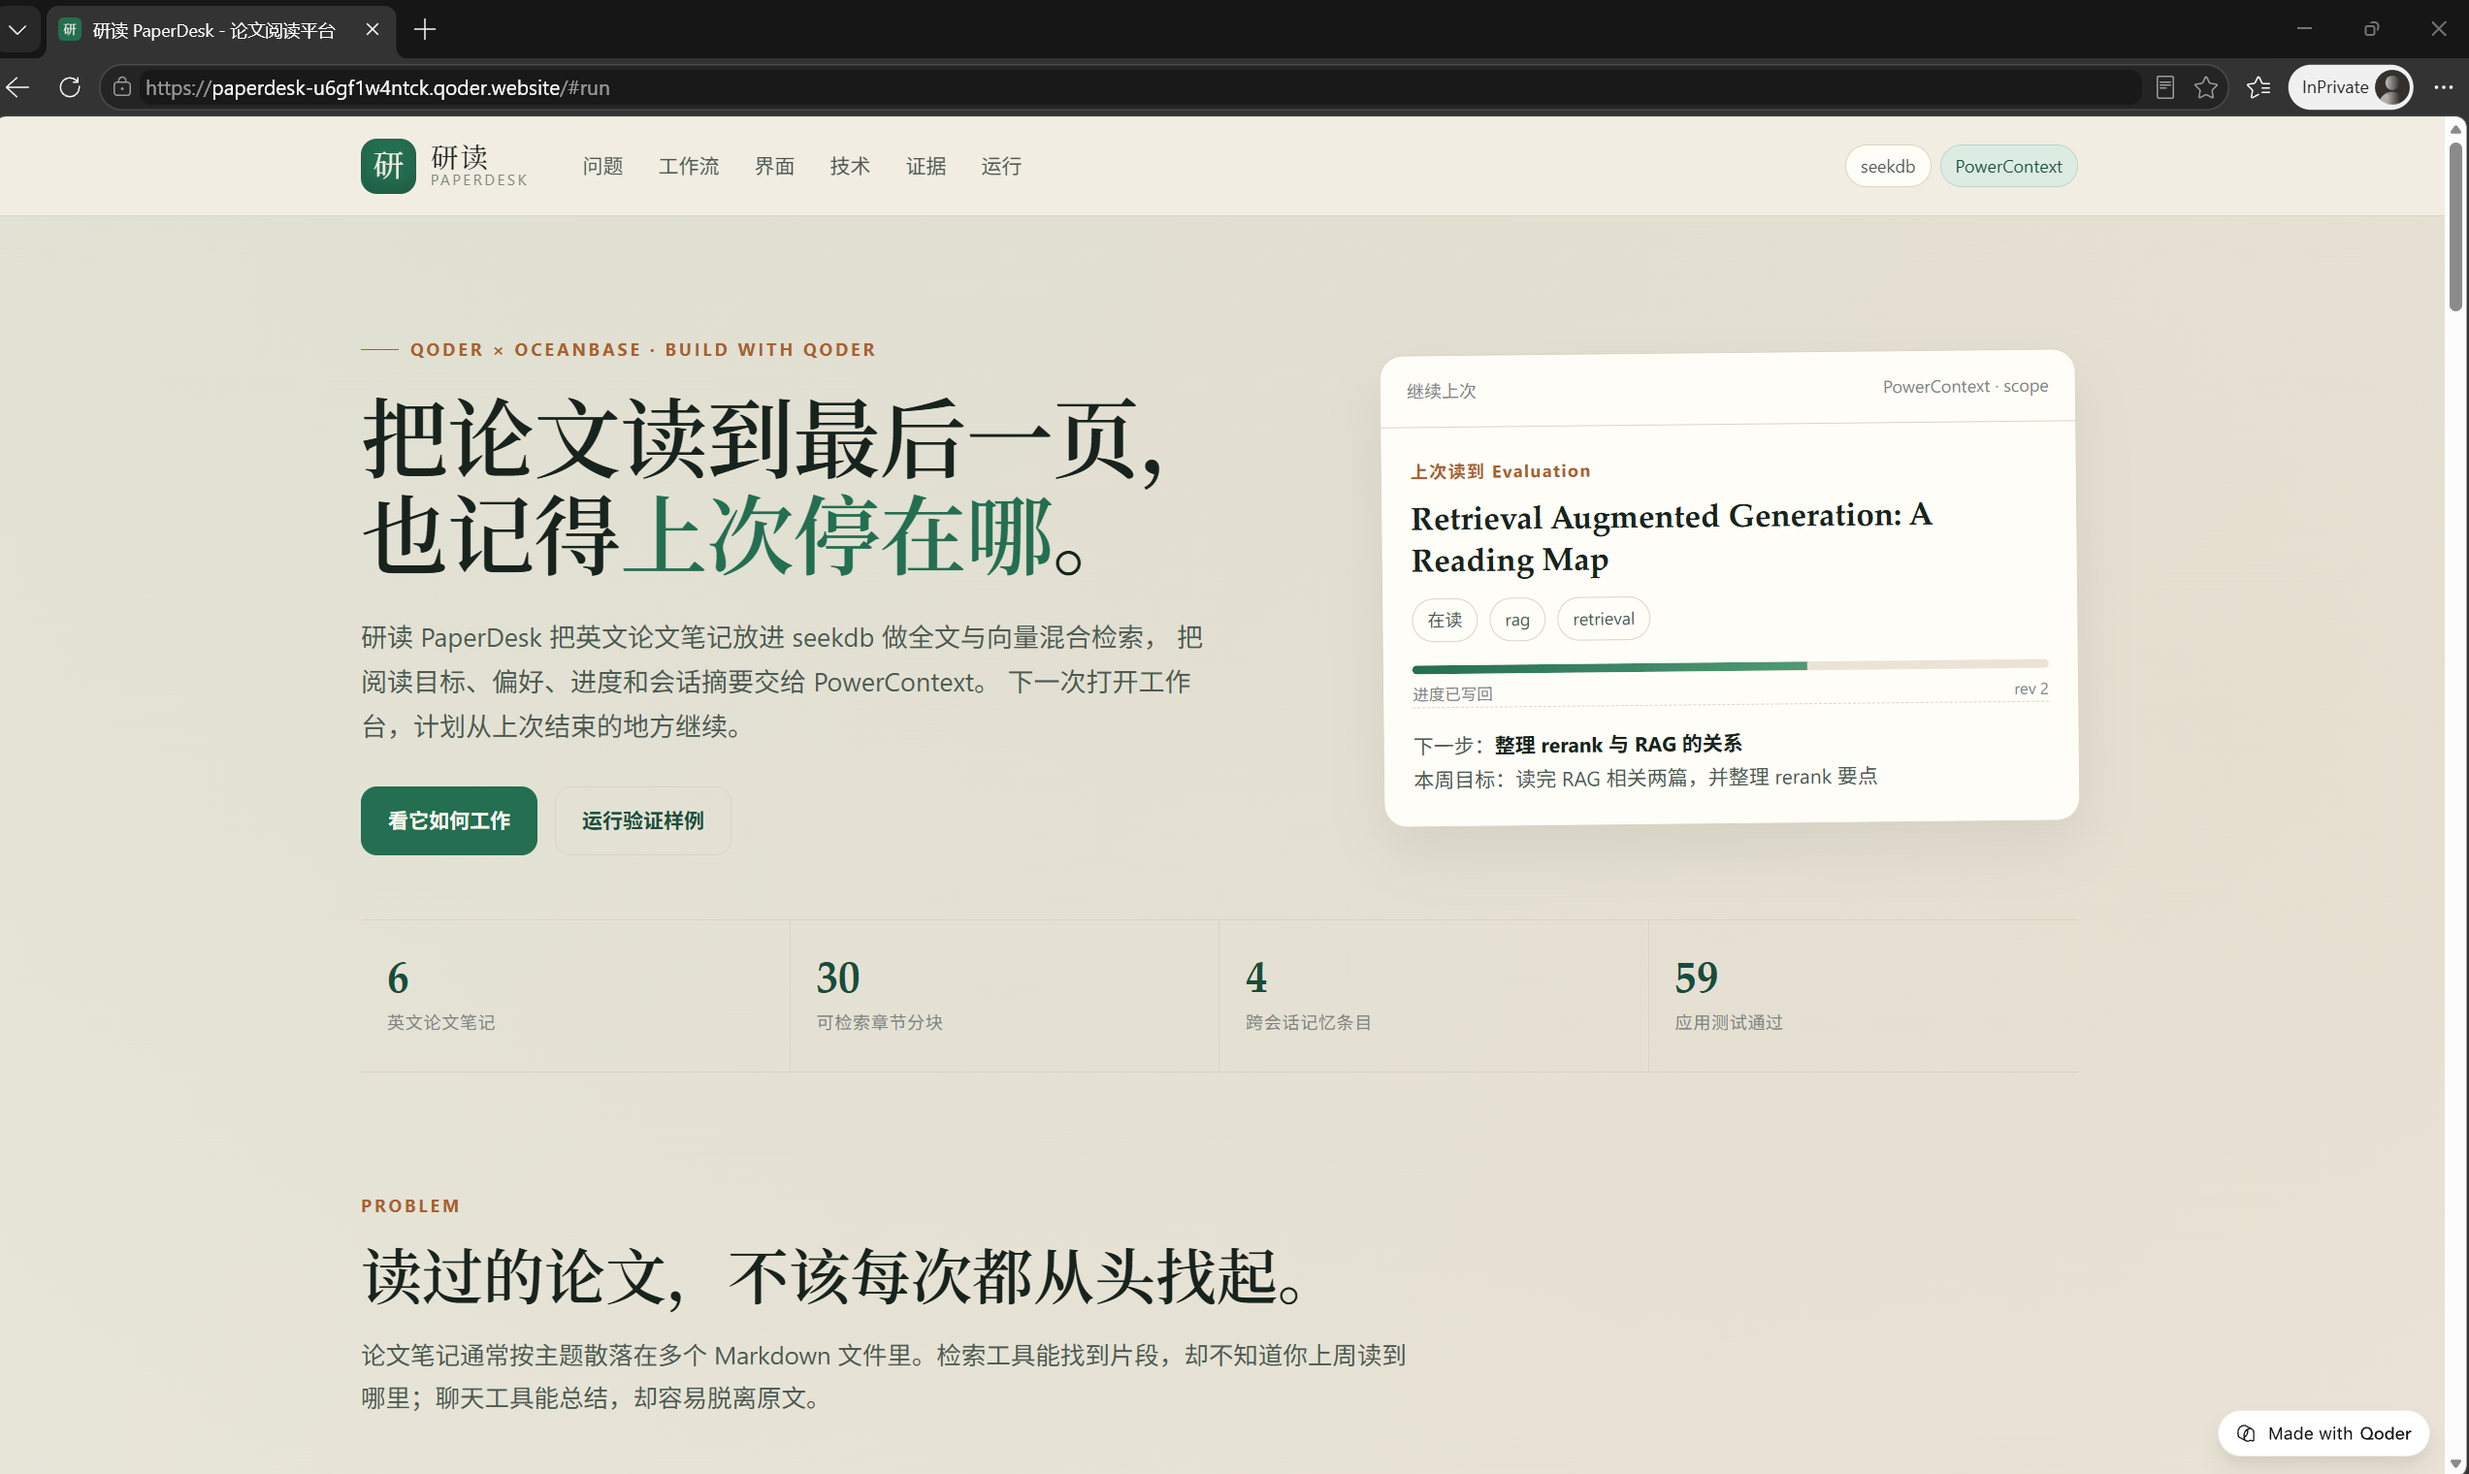
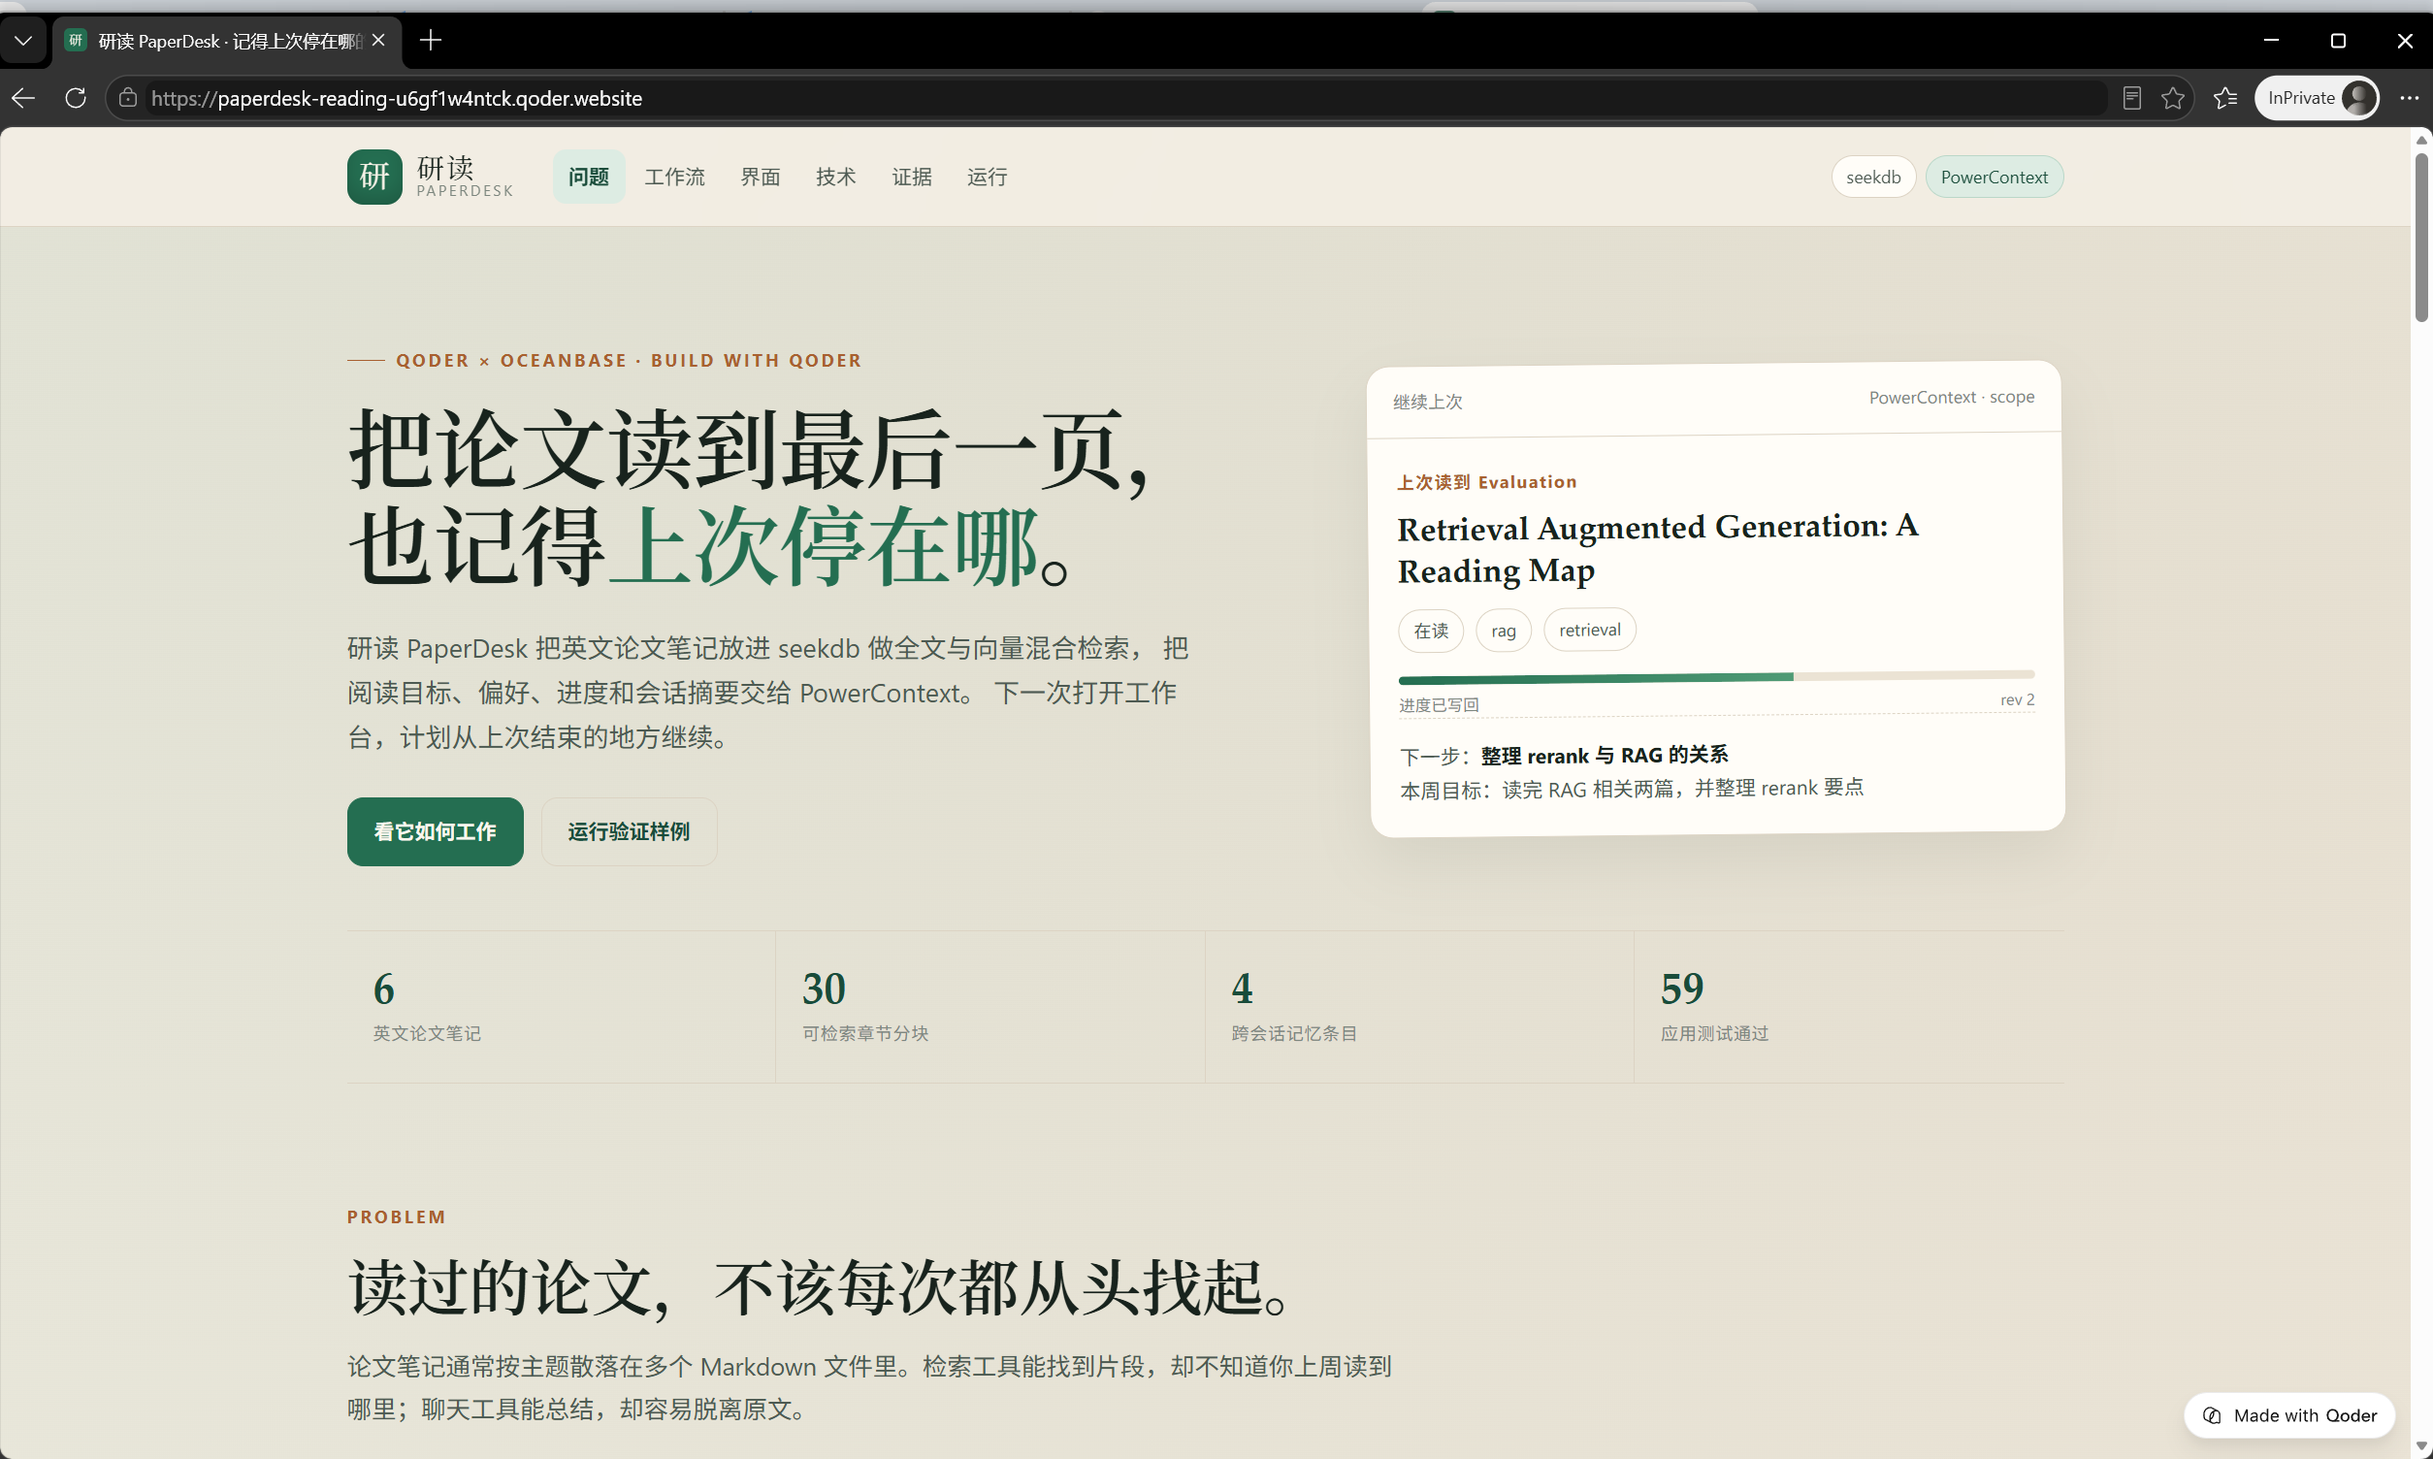
docs(contest): update the public site URL and release screenshots

diff --git a/qoder/README.md b/qoder/README.md
@@ -2,7 +2,7 @@
 
 一个面向科研阅读者的论文笔记工作台：用 **seekdb** 检索英文论文笔记，用 **PowerContext** 记住阅读目标、偏好、进度和会话摘要，让下一次打开工作台时能直接接着上次读。
 
-在线站点（Qoder Sites，公开）：<https://paperdesk-u6gf1w4ntck.qoder.website/>
+在线站点（Qoder Sites，公开）：<https://paperdesk-reading-u6gf1w4ntck.qoder.website/>
 
 ## 解决的痛点
 
@@ -110,7 +110,7 @@ qoder/
 
 | 验收项 | 落点 | 证据 |
 | --- | --- | --- |
-| 网站可访问 | `site/` 静态站点，已通过个人 Qoder 账号在 Qoder Sites 发布并设为公开 | 公开 URL：`https://paperdesk-u6gf1w4ntck.qoder.website/`；可见性与无痕截图见 [evidence/qoder/](evidence/qoder/README.md) |
+| 网站可访问 | `site/` 静态站点，已通过个人 Qoder 账号在 Qoder Sites 发布并设为公开 | 公开 URL：`https://paperdesk-reading-u6gf1w4ntck.qoder.website/`；可见性与无痕截图见 [evidence/qoder/](evidence/qoder/README.md) |
 | 项目能够运行 | `uv.lock`、`.env.example`、`RUNBOOK.md`、一键场景脚本 | `sample/scenario/steps.md` 与 `evidence/` |
 | Qoder 开发可核对 | 需求拆解、实现、调试与验证均在 Qoder 中完成 | [evidence/qoder/README.md](evidence/qoder/README.md) 记录对话截图、UID、发布核验与 commit 对应关系 |
 | 技术结合有效 | seekdb 检索进入计划/速读/综述；PowerContext 记忆跨重启复用 | `evidence/seekdb/`、`evidence/powercontext/`、`evidence/llm/` |

diff --git a/qoder/evidence/qoder/README.md b/qoder/evidence/qoder/README.md
@@ -32,14 +32,14 @@
 
 - 平台：Qoder 桌面端（个人账号）
 - UID：`01a177f6-8352-7dca-aad8-af82f8efed66`
-- 公开站点 URL：`https://paperdesk-u6gf1w4ntck.qoder.website/`
+- 公开站点 URL：`https://paperdesk-reading-u6gf1w4ntck.qoder.website/`
 - 发布方式：Qoder Sites，内容目录为站点根目录（含 `index.html` 与 `assets/`），可见范围设为「所有人可访问」
 - 开发周期：2026-10-26 至 2026-10-27
 - 提交材料中不得包含 `qoder/.env`、`.runtime/`、`.agents/` 或本地工作日志；凭据只保留在被忽略的本地文件中。
 
 ## 发布与访问核验
 
-- 2026-10-27 由个人账号通过 Qoder Sites 发布，站点内容目录为 `site/` 的根目录。
+- 2026-10-27 由个人账号通过 Qoder Sites 发布，发布内容为 `site/` 根目录的 `index.html` 与 `assets/`。
 - 无痕窗口（InPrivate）无需登录即可打开首页，导航、样式、截图和「Made with Qoder」标识正常，见 `screenshots/incognito.png`。
 - 已登录状态下的发布页见 `screenshots/published-home.png`。
 - 分享面板的可见范围显示「任何人都可访问」，见 `screenshots/visibility.png`。
